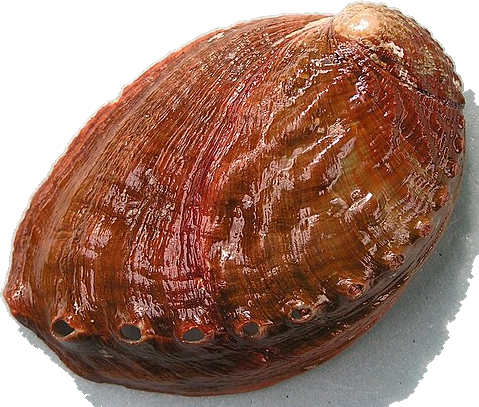
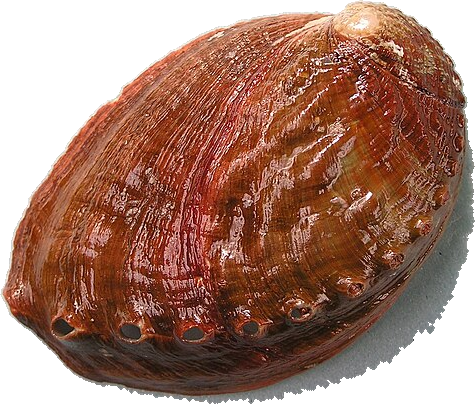
독도 낚시터: 누끼 다시 손보기 (자리돔·바다거북·소라·전복)
- 자리돔: 뒤에 있던 다른 자리돔까지 함께 따여 있던 것을, 손으로 테두리를
  그려 가운데 한 마리만 남김
- 바다거북: 머리와 뒷다리가 잘려 있던 것을 온전하게 다시 땀
  (물빛과의 색 차이로 가르고, 산호 바닥은 테두리로 제외)
- 소라: 사진 속 세 개가 모두 남아 있던 것을 한 개만 남김
- 전복: 밑에 깔린 회색 그림자 조각 지움
- 세로로 긴 화면에서 바닥 아래로 거꾸로 뒤집힌 섬이 보이던 것을,
  바닥 아래가 깊은 바다색으로 서서히 사라지도록 고침

diff --git a/fishing.html b/fishing.html
@@ -258,6 +258,13 @@
       <linearGradient id="fadeV" x1="0" y1="0" x2="0" y2="1">
         <stop offset="0" stop-color="#000"/><stop offset=".09" stop-color="#fff"/>
       </linearGradient>
+      <linearGradient id="fadeDownG" gradientUnits="userSpaceOnUse" x1="0" y1="677" x2="0" y2="980">
+        <stop offset="0" stop-color="#fff"/><stop offset=".55" stop-color="#8f8f8f"/>
+        <stop offset="1" stop-color="#000"/>
+      </linearGradient>
+      <mask id="bgFadeDown" maskUnits="userSpaceOnUse" x="-1200" y="677" width="3400" height="700">
+        <rect x="-1200" y="677" width="3400" height="700" fill="url(#fadeDownG)"/>
+      </mask>
       <mask id="bgFade" maskUnits="userSpaceOnUse" x="-1200" y="118" width="3400" height="559">
         <rect x="-1200" y="118" width="3400" height="559" fill="url(#fadeV)"/>
       </mask>
@@ -306,7 +313,7 @@
              transform="translate(2000,0) scale(-1,1)"/>
     </g>
     <!-- 아래 여백 : 위아래로 뒤집어 이어 붙입니다 -->
-    <g id="bgPic2" opacity=".9">
+    <g id="bgPic2" opacity=".9" mask="url(#bgFadeDown)">
       <image href="dokdo/bg.png" x="0" y="118" width="1000" height="559" preserveAspectRatio="none"
              transform="translate(0,1354) scale(1,-1)"/>
       <image href="dokdo/bg.png" x="0" y="118" width="1000" height="559" preserveAspectRatio="none"

diff --git a/dokdo/README.md b/dokdo/README.md
@@ -65,7 +65,14 @@
 지느러미·다리처럼 떨어져 보이는 부분도 큰 덩어리의 8% 이상이면 함께 남깁니다.
 전복·돌돔처럼 바탕이 흰 사진은 '색이 옅고 밝은 곳'을 지우는 방식,
 독도새우처럼 바탕이 푸르거나 어두운 사진은 '붉은 기가 도는 곳만 남기는' 방식을 썼습니다.
-바다거북은 둘레 산호까지 함께 남아 있어서, 붉은 기 방식으로 다시 따 거북만 남겼습니다.
+바탕이 물빛인 사진(자리돔·바다거북)은 '물빛과 얼마나 다른 색인지' 로 갈랐습니다.
+
+옆에 다른 생물이 붙어 있어 색만으로는 못 가르는 사진은,
+남길 곳을 **손으로 테두리(다각형)를 그려 정해 두고** 그 안에서만 색으로 갈랐습니다.
+- 자리돔 : 뒤에 있던 다른 자리돔 두 마리가 함께 따여서, 가운데 한 마리만 남도록 테두리를 그림
+- 바다거북 : 머리와 뒷다리가 잘리고 산호가 붙어 있어서, 산호 바닥을 뺀 테두리를 그리고 다시 땀
+- 소라 : 사진에 소라가 세 개라 가장 큰 덩어리 하나만 남김
+- 전복 : 밑에 깔린 그림자가 함께 남아 있어서 밝기 기준을 낮춰 지움
 
 ### 바라보는 방향
 `face` 는 그 사진 속 생물이 어느 쪽을 보고 있는지입니다.
